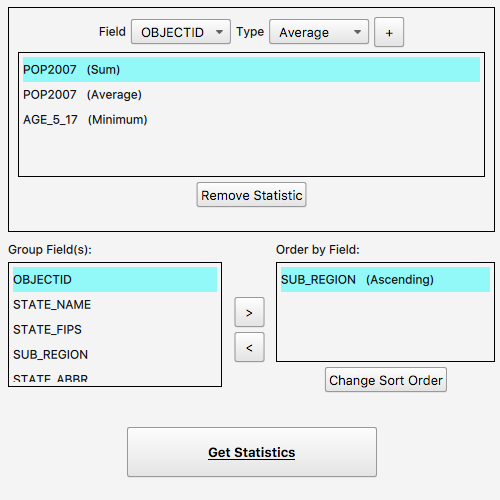
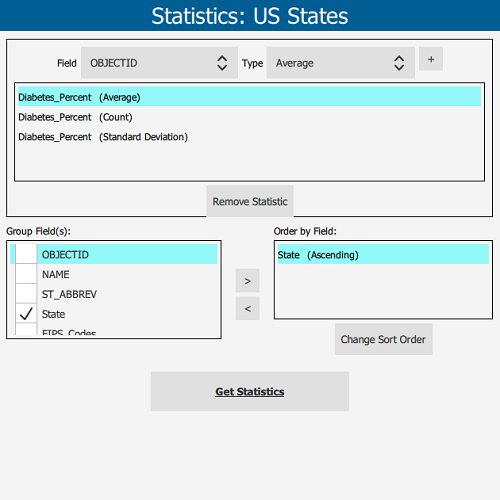
Update data - StatisticalQueryGroupSort
* Changed sample to use data for "Diabetes, Obesity, and Inactivity by US County"

diff --git a/ArcGISRuntimeSDKQt_QMLSamples/Analysis/StatisticalQueryGroupSort/OptionsPage.qml b/ArcGISRuntimeSDKQt_QMLSamples/Analysis/StatisticalQueryGroupSort/OptionsPage.qml
@@ -32,15 +32,15 @@ Rectangle {
         id: statisticsModel
 
         ListElement {
-            field: "POP2007"
-            statistic: "Sum"
-        }
-        ListElement {
-            field: "POP2007"
+            field: "Diabetes_Percent"
             statistic: "Average"
         }
         ListElement {
-            field: "AGE_5_17"
+            field: "Diabetes_Percent"
+            statistic: "Count"
+        }
+        ListElement {
+            field: "Diabetes_Percent"
             statistic: "Minimum"
         }
     }
@@ -50,7 +50,7 @@ Rectangle {
         id: orderByModel
 
         ListElement {
-            field: "SUB_REGION"
+            field: "State"
             order: "Ascending"
         }
     }
@@ -283,7 +283,7 @@ Rectangle {
                                 CheckBox {
                                     anchors.verticalCenter: parent.verticalCenter
                                     text: modelData
-                                    checked: text === "SUB_REGION"
+                                    checked: text === "State"
                                     onCheckedChanged: {
                                         if (checked) {
                                             groupingFields.push(text);

diff --git a/ArcGISRuntimeSDKQt_QMLSamples/Analysis/StatisticalQueryGroupSort/StatisticalQueryGroupSort.qml b/ArcGISRuntimeSDKQt_QMLSamples/Analysis/StatisticalQueryGroupSort/StatisticalQueryGroupSort.qml
@@ -28,7 +28,7 @@ Rectangle {
 
     ServiceFeatureTable {
         id: censusTable
-        url: "https://sampleserver6.arcgisonline.com/arcgis/rest/services/Census/MapServer/3"
+        url: "https://services.arcgis.com/jIL9msH9OI208GCb/arcgis/rest/services/Counties_Obesity_Inactivity_Diabetes_2013/FeatureServer/0"
 
         Component.onCompleted: load();
 
@@ -118,6 +118,9 @@ Rectangle {
                     orderBys.push(orderBy);
                 }
                 params.orderByFields = orderBys;
+
+                // ignore counties with missing data
+                params.whereClause = "\"State\" IS NOT NULL";
 
                 // execute the query
                 censusTable.queryStatistics(params);

diff --git a/ArcGISRuntimeSDKQt_CppSamples/Analysis/StatisticalQueryGroupSort/OptionsPage.qml b/ArcGISRuntimeSDKQt_CppSamples/Analysis/StatisticalQueryGroupSort/OptionsPage.qml
@@ -244,7 +244,7 @@ Rectangle {
                                 CheckBox {
                                     anchors.verticalCenter: parent.verticalCenter
                                     text: modelData
-                                    checked: text === "SUB_REGION"
+                                    checked: text === "State"
 
                                     onCheckedChanged: {
                                         if (checked)

diff --git a/ArcGISRuntimeSDKQt_CppSamples/Analysis/StatisticalQueryGroupSort/StatisticalQueryGroupSort.cpp b/ArcGISRuntimeSDKQt_CppSamples/Analysis/StatisticalQueryGroupSort/StatisticalQueryGroupSort.cpp
@@ -52,15 +52,15 @@ void StatisticalQueryGroupSort::componentComplete()
   QQuickItem::componentComplete();
 
   // Create the Service Feature Table
-  m_featureTable = new ServiceFeatureTable(QUrl("https://sampleserver6.arcgisonline.com/arcgis/rest/services/Census/MapServer/3"), this);
+  m_featureTable = new ServiceFeatureTable(QUrl("https://services.arcgis.com/jIL9msH9OI208GCb/arcgis/rest/services/Counties_Obesity_Inactivity_Diabetes_2013/FeatureServer/0"), this);
   connectSignals();
   m_featureTable->load();
 
   // Setup default values for the Options page
-  addStatisticDefinition("POP2007", "Sum");
-  addStatisticDefinition("POP2007", "Average");
-  addStatisticDefinition("AGE_5_17", "Minimum");
-  addOrderBy("SUB_REGION", "Ascending");
+  addStatisticDefinition("Diabetes_Percent", "Average");
+  addStatisticDefinition("Diabetes_Percent", "Count");
+  addStatisticDefinition("Diabetes_Percent", "Standard Deviation");
+  addOrderBy("State", "Ascending");
   m_statisticTypes << "Average" << "Count" << "Maximum" << "Minimum"
                    << "Standard Deviation" << "Sum" << "Variance";
   emit statisticTypesChanged();
@@ -158,6 +158,9 @@ void StatisticalQueryGroupSort::queryStatistics()
     orderByList.append(orderBy);
   }
   params.setOrderByFields(orderByList);
+
+  // ignore counties with missing data
+  params.setWhereClause("\"State\" IS NOT NULL");
 
   // execute the query
   m_featureTable->queryStatistics(params);
